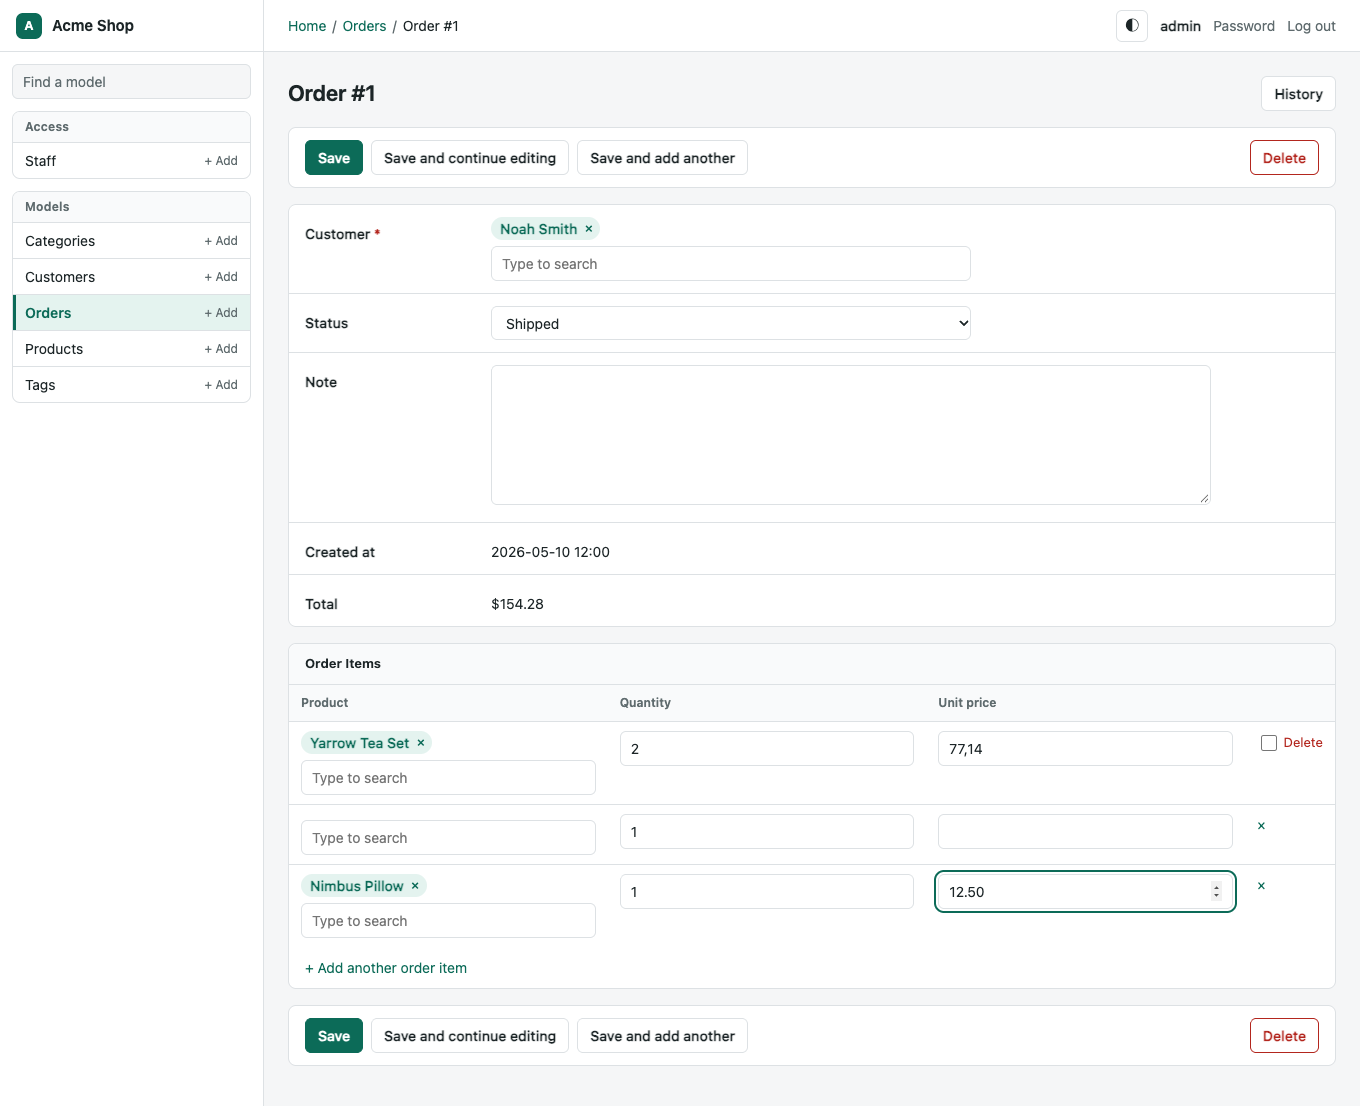
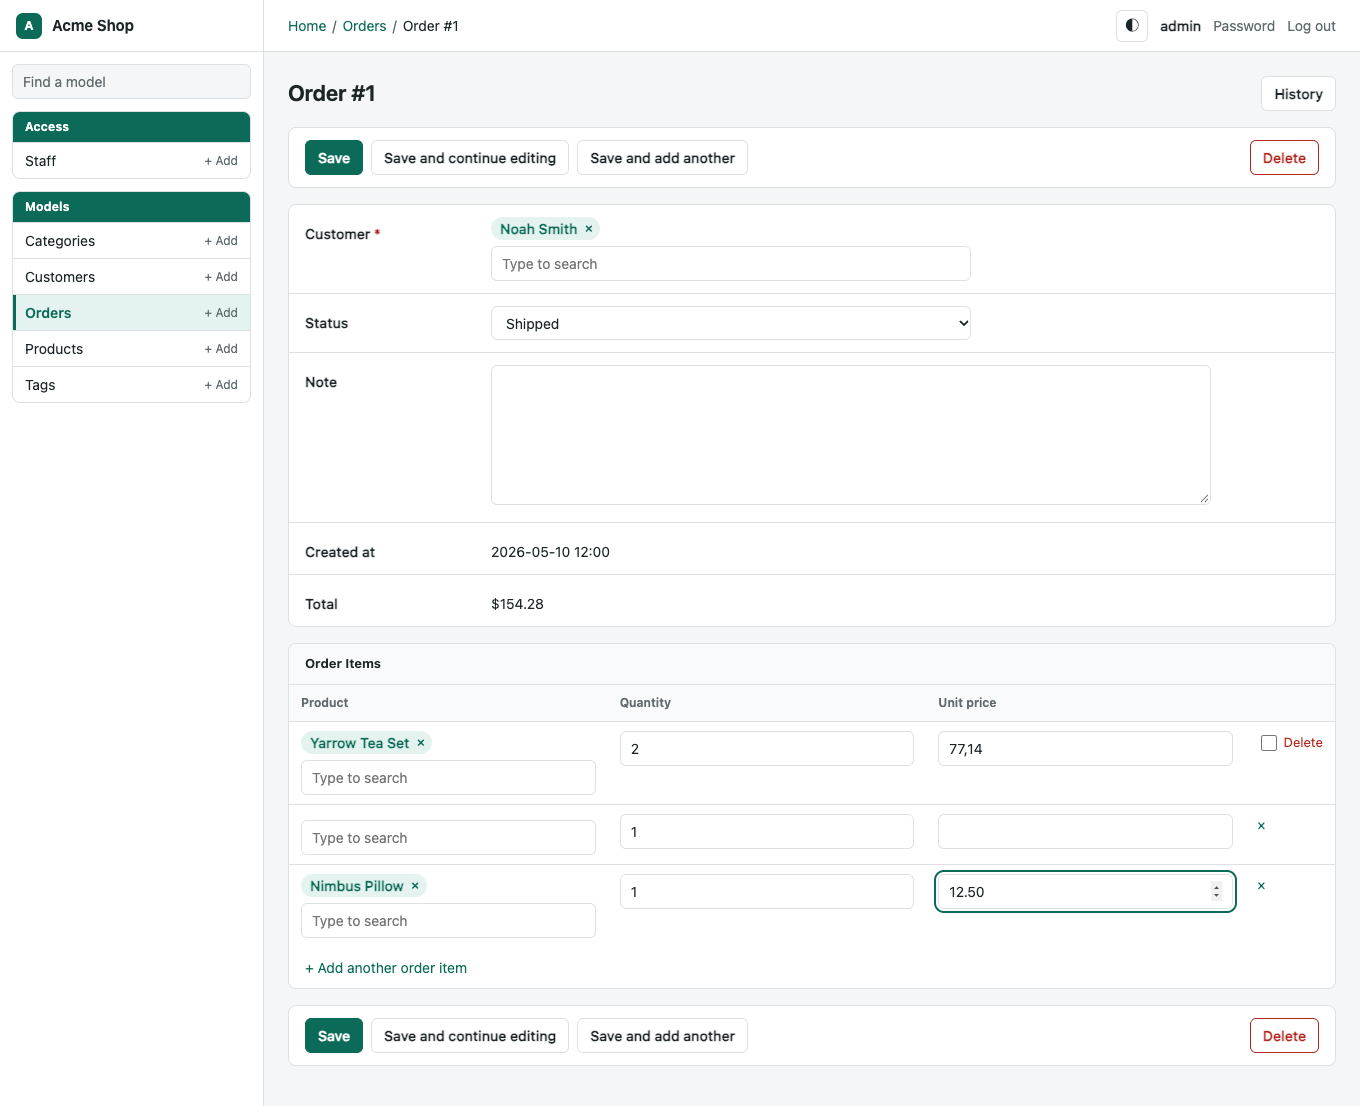
feat: use the accent color for sidebar group headers

Changed region(s): [[0.0, 0.0922, 0.1853, 0.2152]]

diff --git a/src/fastapi_panel/static/panel.css b/src/fastapi_panel/static/panel.css
@@ -107,7 +107,7 @@ ul { list-style: none; margin: 0; padding: 0; }
 .sidebar .nav-search::placeholder { color: var(--muted); }
 .nav-group { margin-bottom: 12px; border: 1px solid var(--border); border-radius: var(--radius); overflow: hidden; }
 .nav-title {
-  padding: 6px 12px; background: var(--surface-alt); color: var(--muted);
+  padding: 6px 12px; background: var(--accent); color: var(--on-accent);
   font-size: 12px; font-weight: 650; letter-spacing: .02em;
 }
 .nav-item { display: flex; align-items: center; border-top: 1px solid var(--border); }
